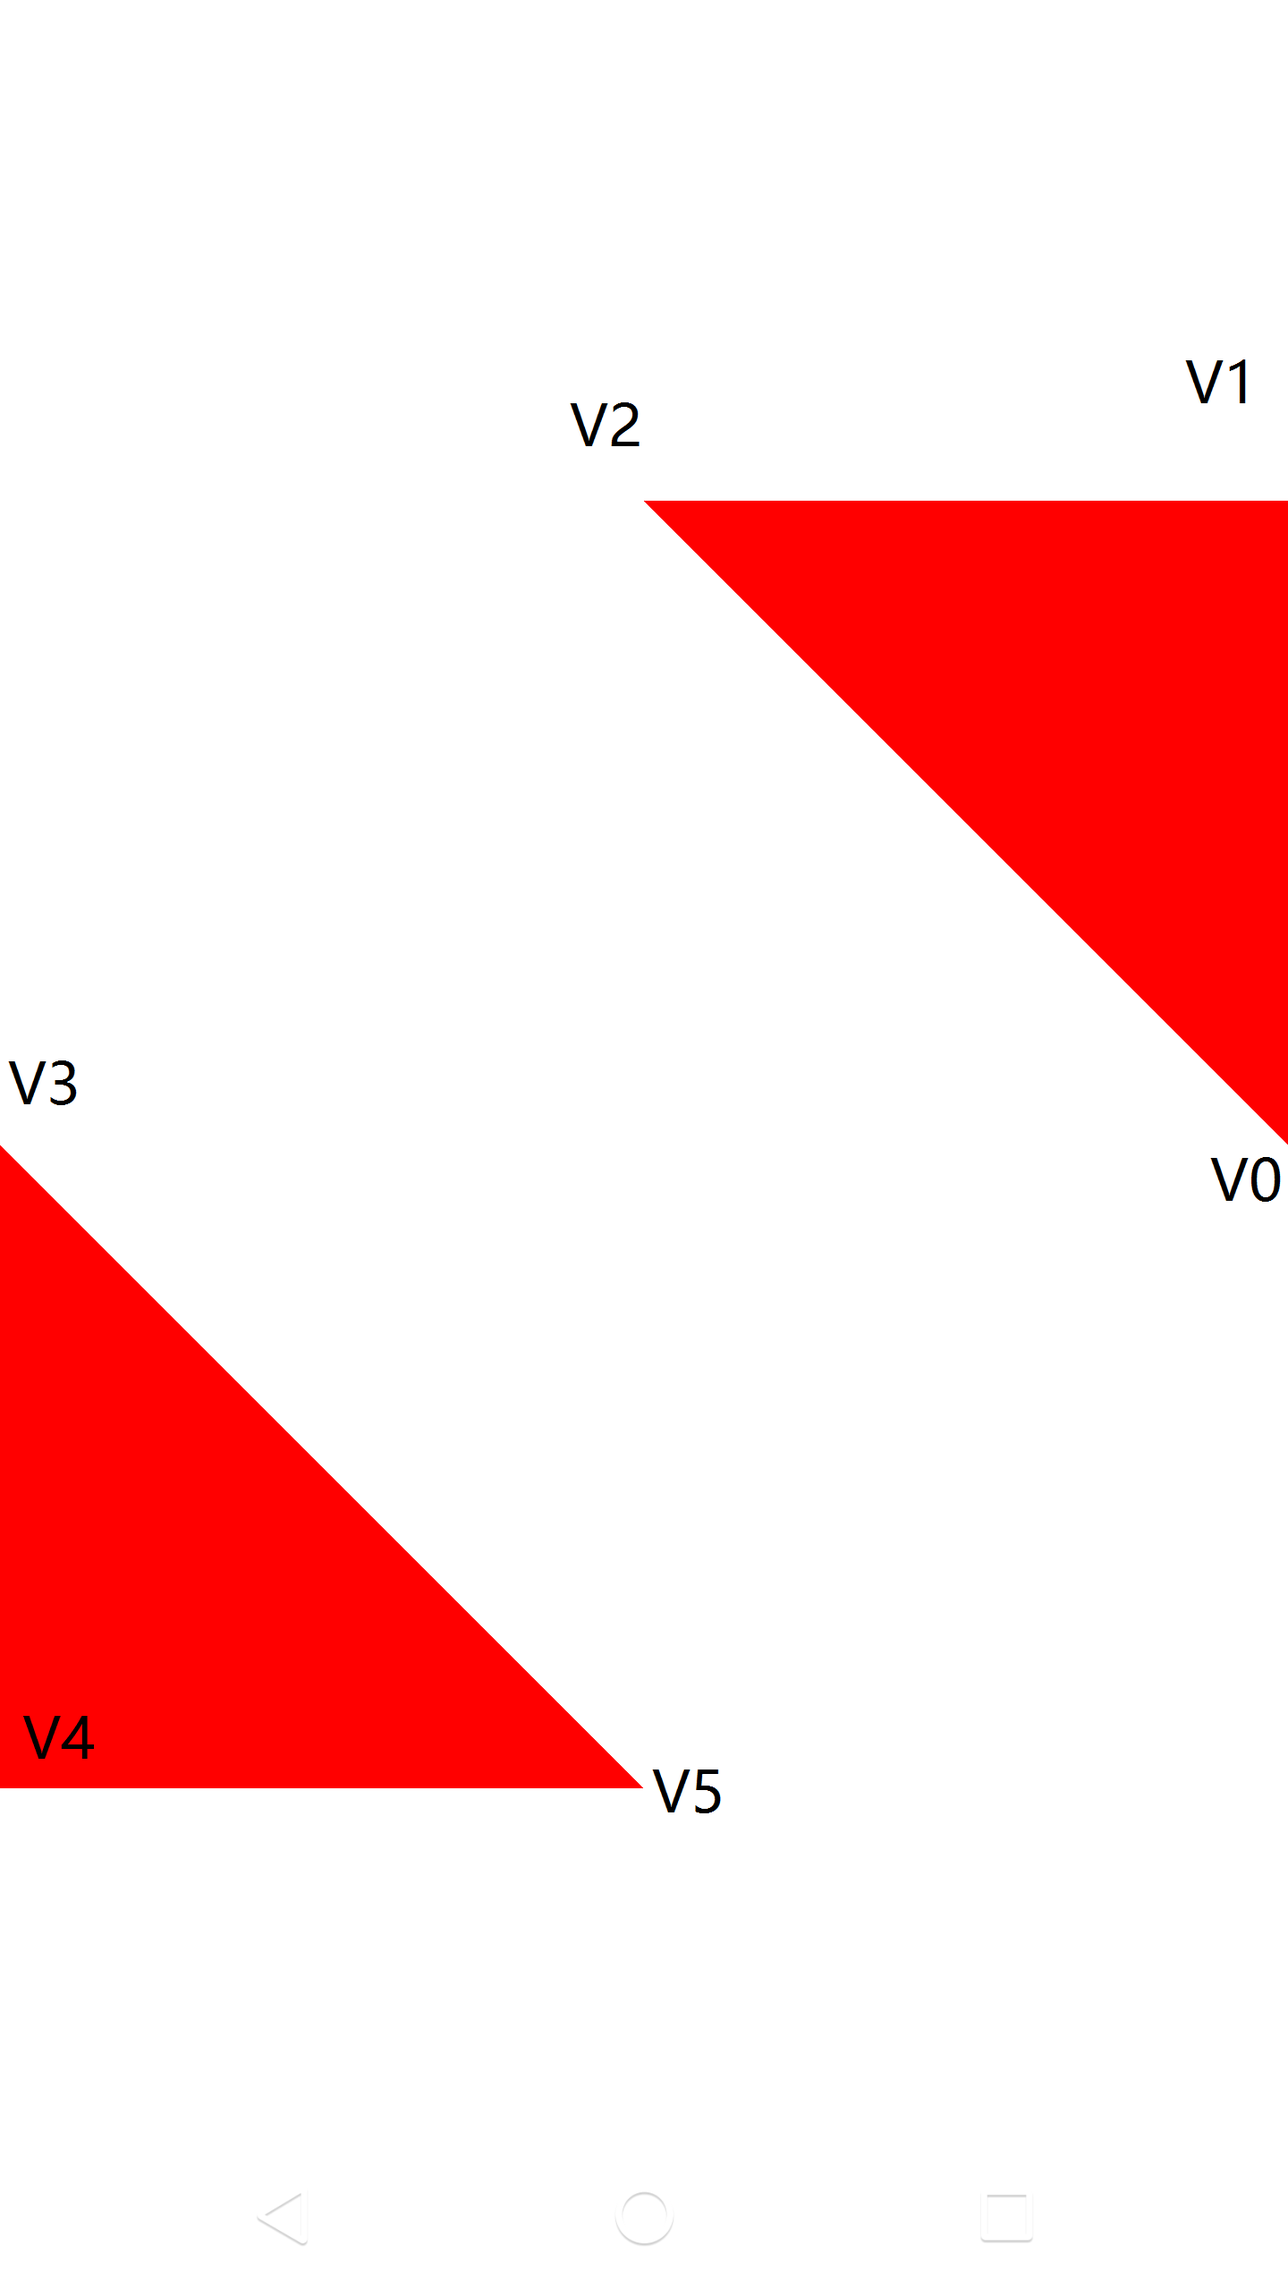
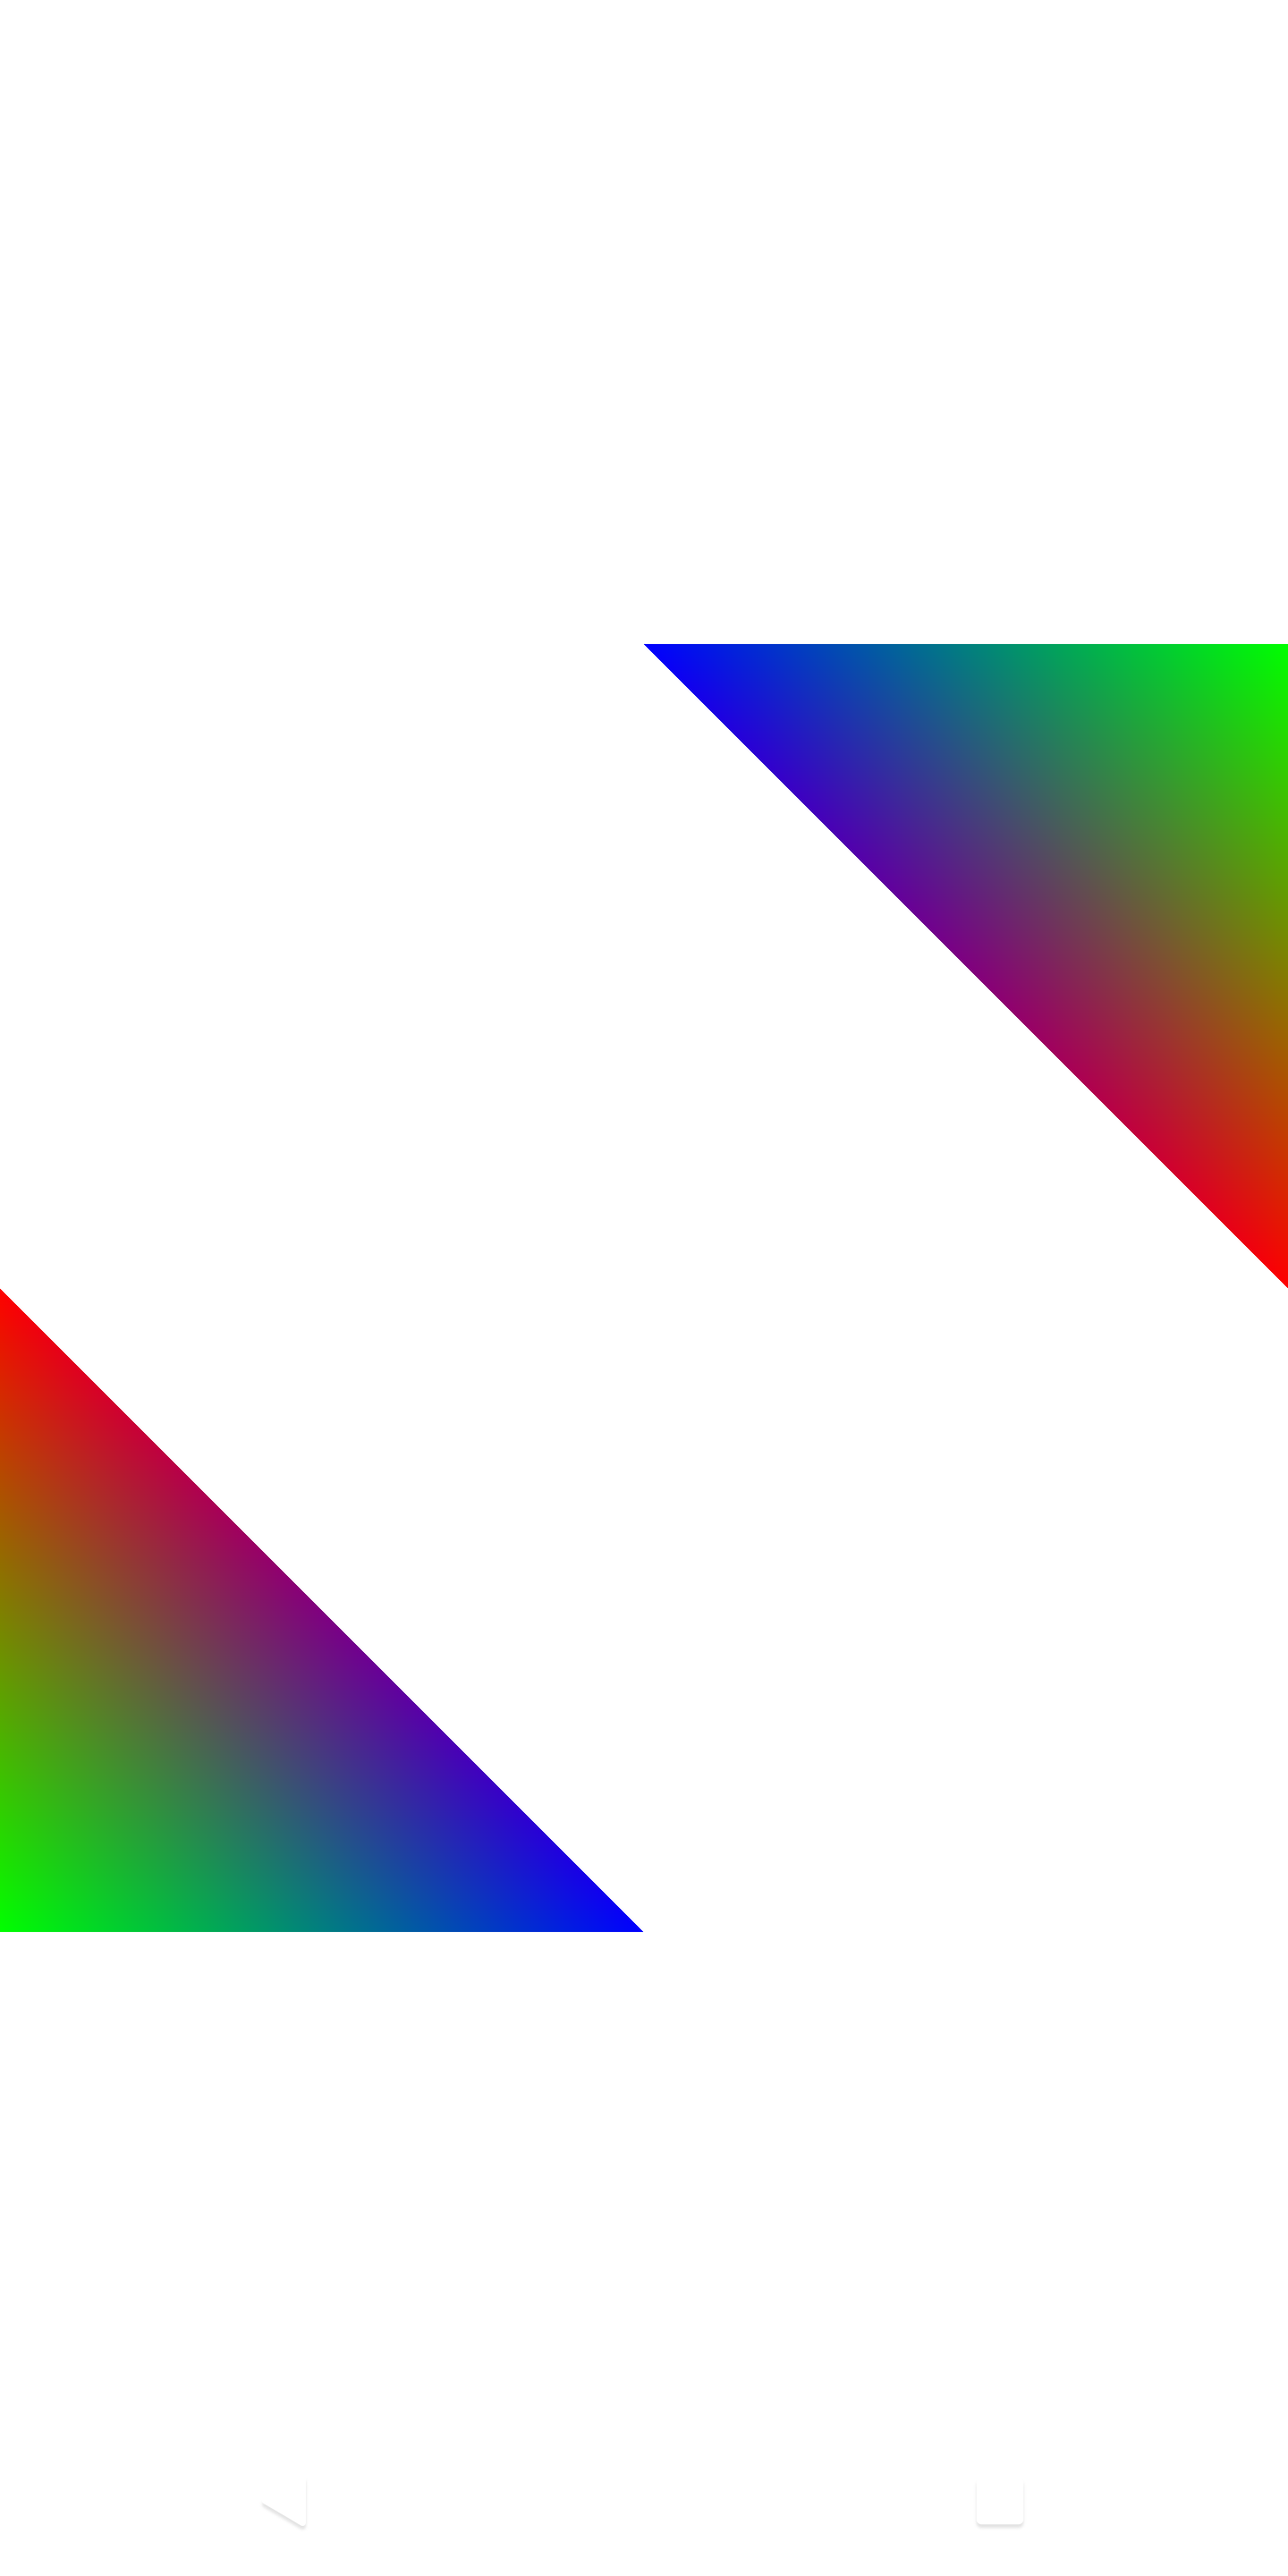
add color triangles

diff --git a/app/src/main/cpp/004_gl_triangle_app.cpp b/app/src/main/cpp/004_gl_triangle_app.cpp
@@ -7,18 +7,22 @@ void GLTriangleApp::Initialize()
 	const char* vShaderStr=
     "#version 300 es                            \n"
     "layout(location = 0) in vec3 vPosition;    \n"
+    "layout(location = 1) in vec3 vColor;       \n"
+    "out vec3 myColor;                          \n"
     "void main()                                \n"
     "{                                          \n"
     "    gl_Position = vec4(vPosition,1.0);     \n"
+    "    myColor     = vColor;                  \n"
     "}                                          \n"
     "                                           \n";
 
      const char* fShaderStr=
     "#version 300 es                             \n"
+    "in vec3 myColor;                            \n"
     "out vec4 fragColor;                         \n"
     "void main()                                 \n"
     "{                                           \n"
-    "  fragColor = vec4(1.0, 0.0, 0.0, 1.0);     \n"
+    "  fragColor = vec4(myColor, 1.0);            \n"
     "}                                           \n";
 
     GLuint shaderProgram = linkShader2Program(vShaderStr,fShaderStr);
@@ -34,9 +38,11 @@ void GLTriangleApp::Initialize()
     glEnableVertexAttribArray(0);
     //pass 0 as stride also work as data tightly packed.
     //pass 3*sizeof(float), means each vertex data has a size of 3*sizeof(float)
-    glVertexAttribPointer(0, 3, GL_FLOAT, GL_FALSE, 3*sizeof(GLfloat), (void*)0);
+    glVertexAttribPointer(0, 3, GL_FLOAT, GL_FALSE, 6*sizeof(GLfloat), (void*)0);
     //LOGI("sizeof mVertices = %d",sizeof(mVertices));
     //LOGI("sizeof flaot :=%d",sizeof(GLfloat));
+    glEnableVertexAttribArray(1);
+    glVertexAttribPointer(1, 3, GL_FLOAT, GL_FALSE, 6*sizeof(GLfloat), (void*)(3*sizeof(GLfloat)));
     checkGLError("Initialize");
     squareViewport();
 }

diff --git a/app/src/main/cpp/004_gl_triangle_app.h b/app/src/main/cpp/004_gl_triangle_app.h
@@ -10,13 +10,14 @@ class GLTriangleApp : public GLBaseApp
         void Render();
         void ShutDown(){};
     private:
-        GLfloat mVertices[6*3]=
+        GLfloat mVertices[6*6]=
         {
-             1.0, 0.0, 0.0,
-             1.0, 1.0, 0.0,
-             0.0, 1.0, 0.0,
-            -1.0, 0.0, 0.0,
-            -1.0,-1.0, 0.0,
-             0.0,-1.0, 0.0,
+            //pos           //color
+             1.0, 0.0, 0.0, 1.0, 0.0, 0.0,
+             1.0, 1.0, 0.0, 0.0, 1.0, 0.0,
+             0.0, 1.0, 0.0, 0.0, 0.0, 1.0,
+            -1.0, 0.0, 0.0, 1.0, 0.0, 0.0,
+            -1.0,-1.0, 0.0, 0.0, 1.0, 0.0,
+             0.0,-1.0, 0.0, 0.0, 0.0, 1.0,
         };
 };

diff --git a/app/src/main/cpp/main.cpp b/app/src/main/cpp/main.cpp
@@ -409,9 +409,9 @@ GLBaseApp* CreateGLApp()
     //app = new GLColorApp();
     //app = new GLPointApp();
     //app = new GLLinesApp();
-    //app = new GLTriangleApp();
+    app = new GLTriangleApp();
     //app = new GLRegularPolygonsApp();
-    app = new GLCubeApp();
+    //app = new GLCubeApp();
     //app = new GLFrameCheckerApp();
 
     return app;
